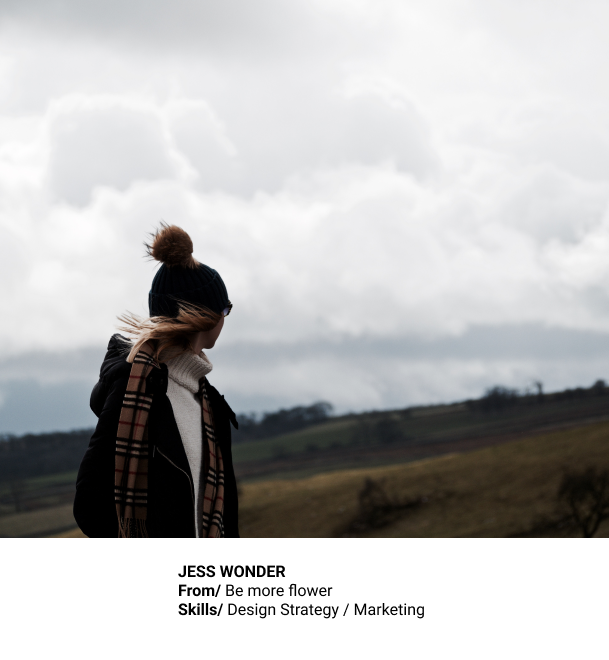
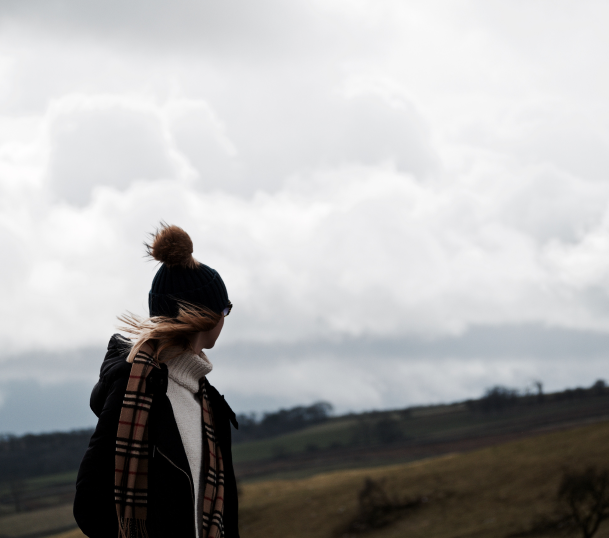
redone second section

diff --git a/index.html b/index.html
@@ -26,7 +26,7 @@
         <img src="img/Katya Mills.jpg" alt="Katya Mills">
         <h3>Katya Mills</h3>
         <p>Art Director Scenography / Styling / Creative Photography / Design</p>
-        <img src="img/Rectangle.png">
+        <hr/>
         <blockquote>
             “The more I deal with the work as something that is my own,
               as something that is personal, the more successful it is.”
@@ -35,6 +35,7 @@
     
     <section id="Designers">
         <h2>Designers</h2>
+        
         <ul>
             <li>
                 <img src="img/Designer Jess Wonder.png" alt="Jess Wonder">
